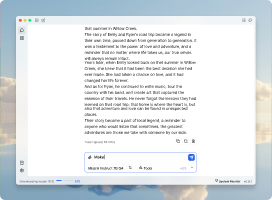
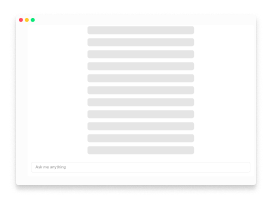
enhancement: update thumbnail chat width option setting (#4284)

diff --git a/web/screens/Settings/Appearance/index.tsx b/web/screens/Settings/Appearance/index.tsx
@@ -6,6 +6,8 @@ import { fs, joinPath } from '@janhq/core'
 import { Button, Select, Switch } from '@janhq/joi'
 import { useAtom, useAtomValue } from 'jotai'
 
+import { twMerge } from 'tailwind-merge'
+
 import {
   chatWidthAtom,
   janThemesPathAtom,
@@ -19,7 +21,7 @@ import {
 export default function AppearanceOptions() {
   const [selectedIdTheme, setSelectedIdTheme] = useAtom(selectedThemeIdAtom)
   const themeOptions = useAtomValue(themesOptionsAtom)
-  const { setTheme } = useTheme()
+  const { setTheme, theme } = useTheme()
   const janThemesPath = useAtomValue(janThemesPathAtom)
   const [themeData, setThemeData] = useAtom(themeDataAtom)
   const [reduceTransparent, setReduceTransparent] = useAtom(
@@ -29,11 +31,17 @@ export default function AppearanceOptions() {
   const [chatWidth, setChatWidth] = useAtom(chatWidthAtom)
 
   const chatWidthOption = [
-    { name: 'Full Width', value: 'full', img: 'images/full-width.png' },
+    {
+      name: 'Full Width',
+      value: 'full',
+      img: 'images/full-width.png',
+      darkImg: 'images/full-width-dark.png',
+    },
     {
       name: 'Compact Width',
       value: 'compact',
       img: 'images/compact-width.png',
+      darkImg: 'images/compact-width-dark.png',
     },
   ]
 
@@ -123,26 +131,44 @@ export default function AppearanceOptions() {
                   <label
                     className="relative cursor-pointer"
                     htmlFor={option.name}
+                    onClick={() => setChatWidth(option.value)}
                   >
                     <img
-                      src={option.img}
+                      src={theme === 'dark' ? option.darkImg : option.img}
                       alt={option.value}
                       width={140}
-                      className="rounded-lg"
+                      className={twMerge(
+                        'rounded-lg border-2 border-[hsla(var(--app-border))] bg-[hsla(var(--secondary-bg))] transition-all',
+                        chatWidth === option.value &&
+                          'border-[hsla(var(--primary-bg))]'
+                      )}
                     />
                     <p className="my-2 font-medium">{option.name}</p>
-                    <div className="relative">
-                      <input
-                        name="chatWidth"
-                        value={option.value}
-                        checked={chatWidth === option.value}
-                        onChange={() => setChatWidth(option.value)}
-                        type="radio"
-                        className="peer h-5 w-5 cursor-pointer appearance-none rounded-full border border-[hsla(var(--app-border))] transition-all checked:border-[hsla(var(--primary-bg))]"
-                        id={option.name}
-                      />
-                      <span className="absolute left-1/2 top-1/2 -mt-[3px] h-3 w-3 -translate-x-1/2 -translate-y-1/2 transform rounded-full bg-[hsla(var(--primary-bg))] opacity-0 transition-opacity duration-200 peer-checked:opacity-100"></span>
-                    </div>
+                    {chatWidth === option.value && (
+                      <div className="absolute right-2 top-2 ">
+                        <svg
+                          width="24"
+                          height="24"
+                          viewBox="0 0 16 16"
+                          fill="none"
+                          xmlns="http://www.w3.org/2000/svg"
+                        >
+                          <rect
+                            width="16"
+                            height="16"
+                            rx="8"
+                            className="fill-[hsla(var(--primary-bg))]"
+                          />
+                          <path
+                            d="M11.1111 5.66699L6.83333 9.94477L4.88889 8.00033"
+                            stroke="white"
+                            strokeWidth="0.886667"
+                            strokeLinecap="round"
+                            strokeLinejoin="round"
+                          />
+                        </svg>
+                      </div>
+                    )}
                   </label>
                 </div>
               )
